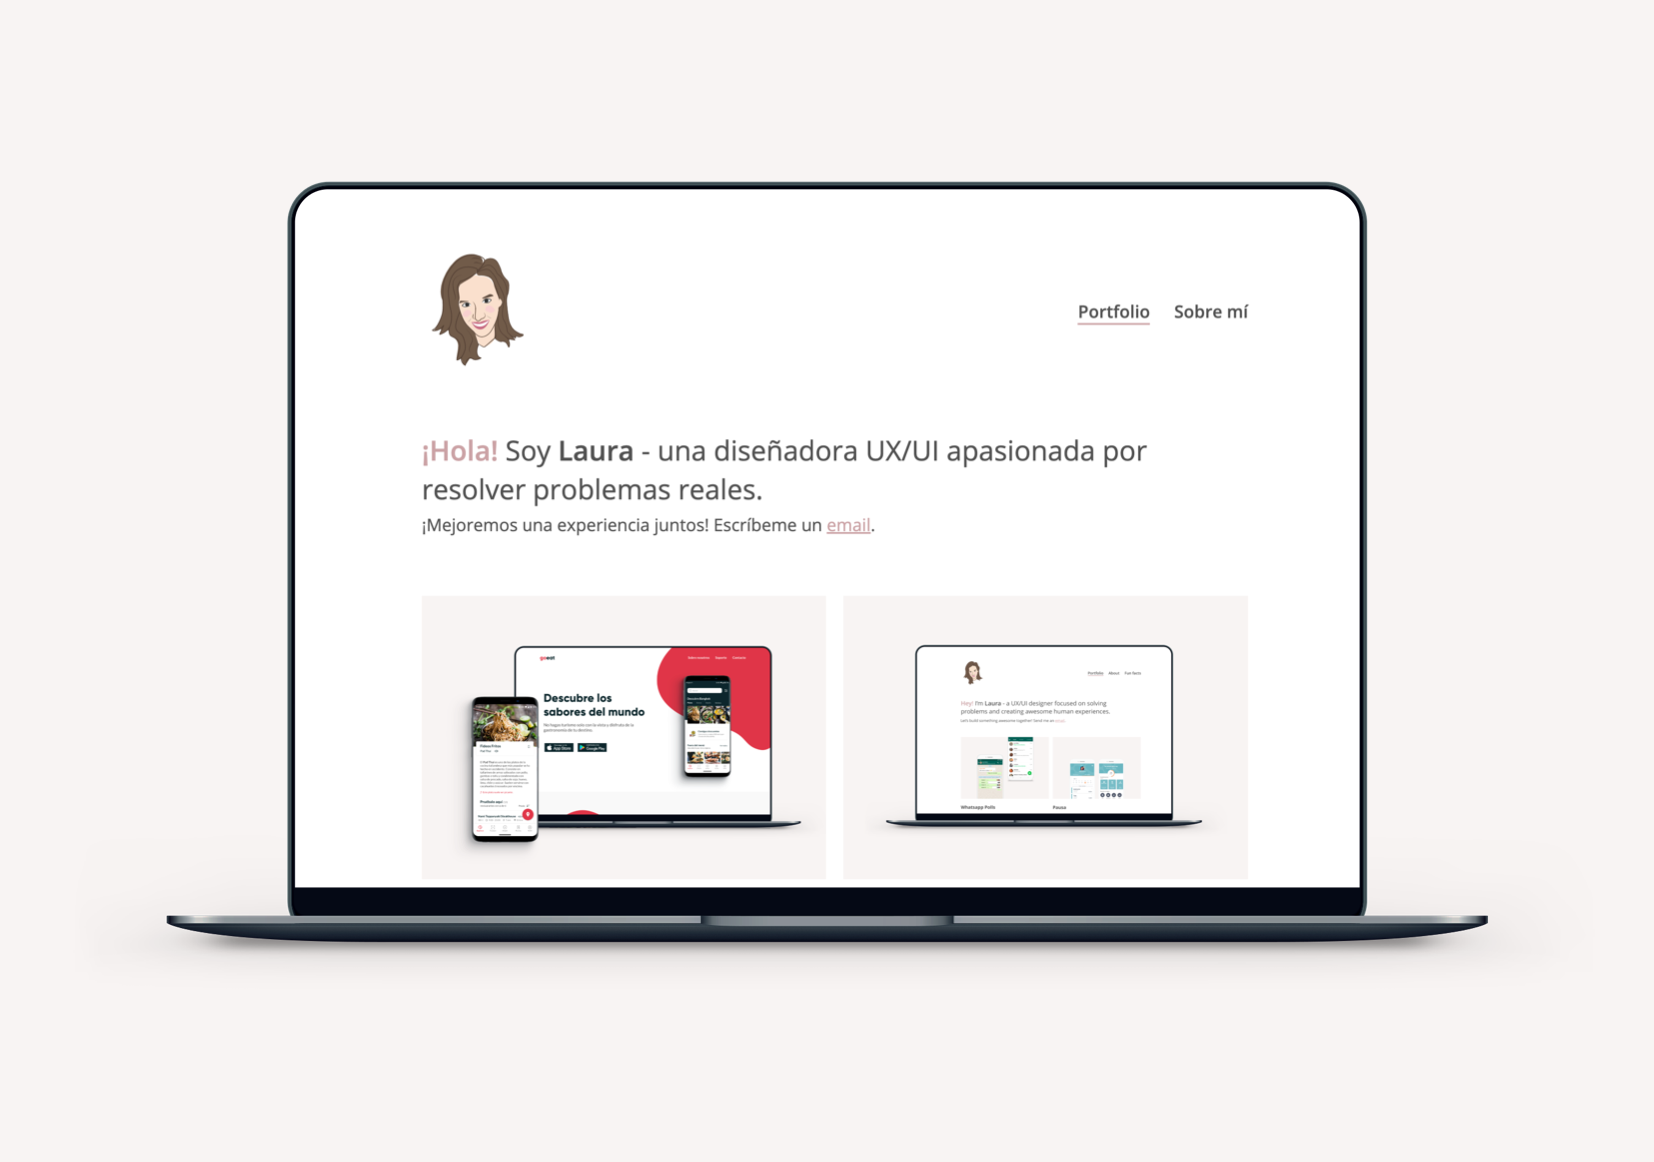
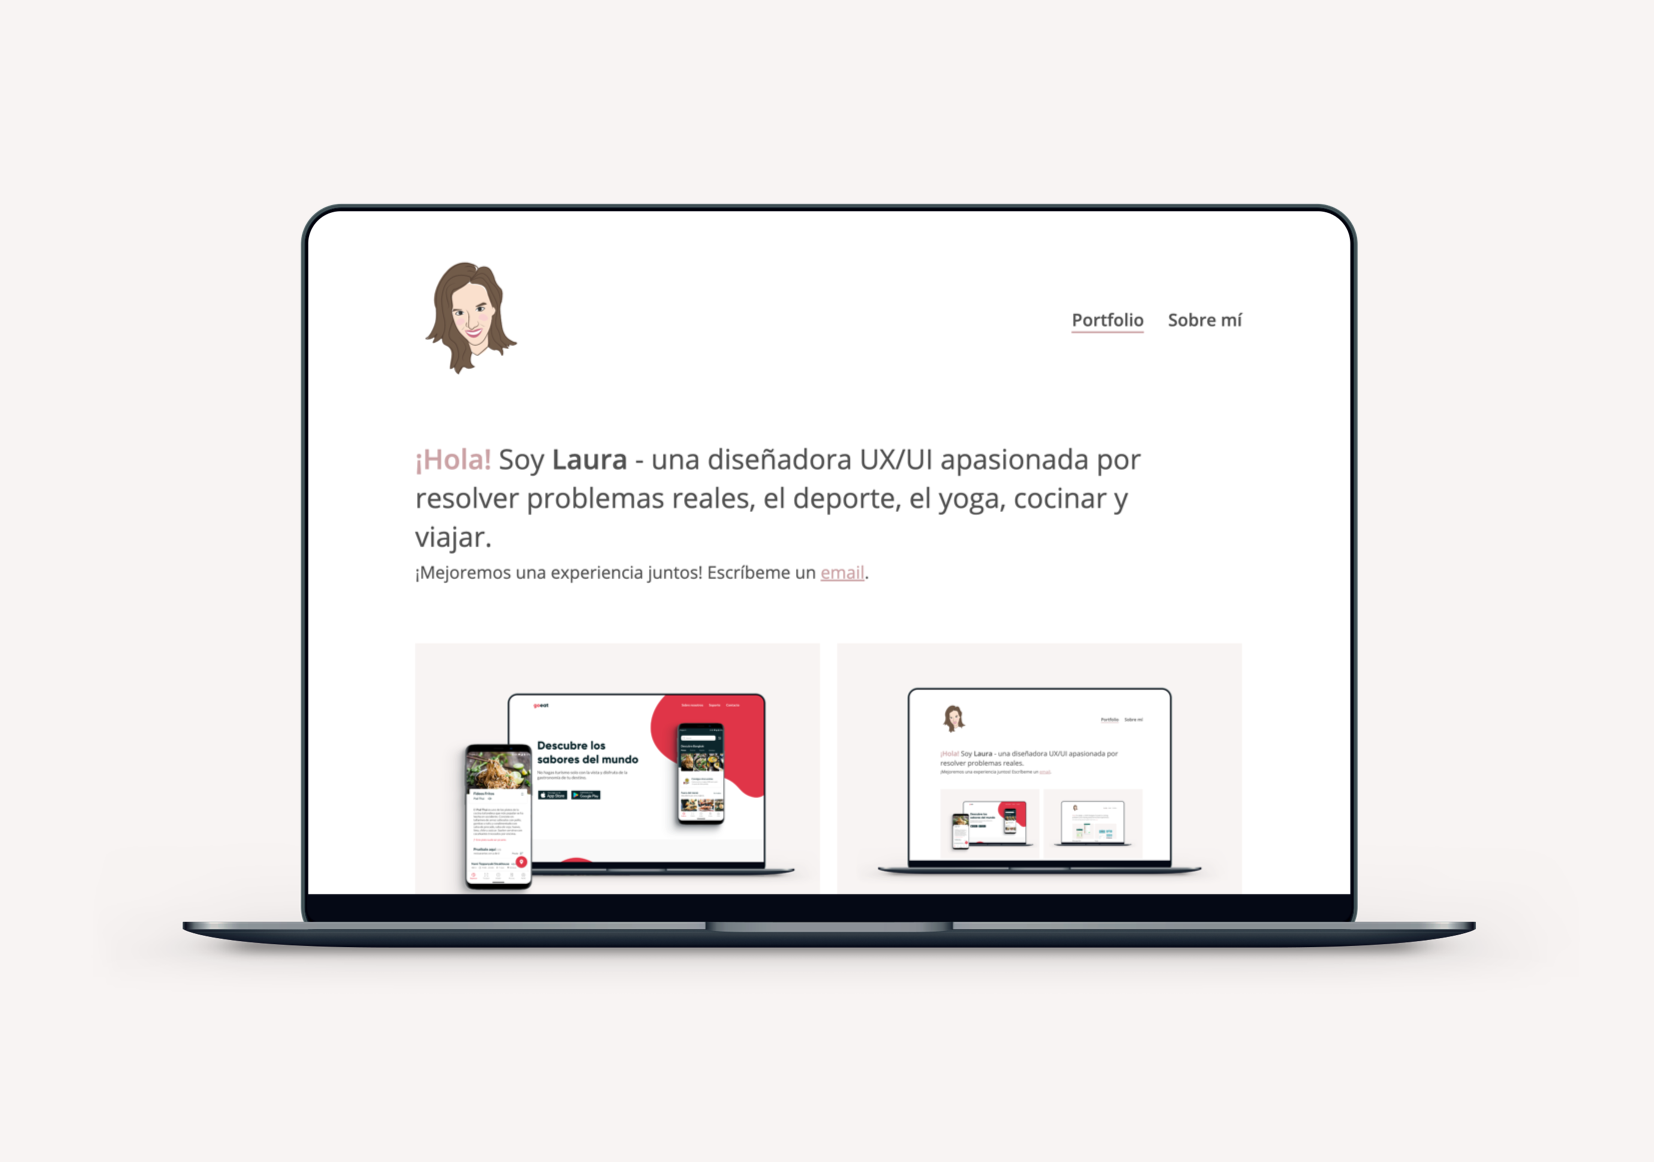
added more info to the about page

diff --git a/about.html b/about.html
@@ -15,7 +15,7 @@
   <header>
     <nav class="main-navigation container">
       <div id="logo">
-        <img src="img/laura-logo.svg" alt="Laura's logo">
+        <a href="./index.html"><img src="img/laura-logo.svg" alt="Laura's logo"></a>
       </div>
       <ul id="menu">
         <li><a href="./index.html">Portfolio</a></li>
@@ -27,11 +27,23 @@
   <div class="container" id="about">
     <h1>Una diseñadora UX/UI con sede en Madrid, España</h1>
     <p>Como <span class="semibold"> diseñadora UX/UI</span>, me apasiona resolver problemas reales y crear experiencias intuitivas, funcionales y claras.</p>
-    <p>Como profesora de Primaria, <span class="semibold">he diseñado experiencias de aprendizaje durante 4 años. </span>Mi curiosidad insaciable y mi amor por las nuevas tecnologías me ha llevado a aprender más sobre el diseño centrado en el usuario en el mundo digital. Me inscribí en <span class="semibold">el Bootcamp de UX/UI de Ironhack</span> para dar un salto profesional hacia una carrera que me permitiera crecer y aprender continuamente.</p>
+    <p>Como profesora de Primaria, <span class="semibold">he diseñado experiencias de aprendizaje durante 4 años </span>en Sevilla y en Dublin. Mi curiosidad insaciable y mi amor por las nuevas tecnologías me ha llevado a aprender más sobre el diseño centrado en el usuario en el mundo digital. Me inscribí en <span class="semibold">el Bootcamp de UX/UI de Ironhack</span> para dar ese salto profesional hacia una carrera que me permitiera crecer y aprender continuamente.</p>
     <p>Mientras que mi foco principal radica en el diseño, trato de desafiarme constantemente en todas las áreas y expandir mi conocimiento en <span class="semibold">front-end</span> también.</p>
-    <p>Además del mundo técnologico, me apasiona el yoga, los gatos y la cocina. La comida es mi segundo idioma.</p>
+    <p>Además del mundo técnologico, me apasiona el deporte, el yoga, los gatos, la cocina y viajar. La comida es mi segundo idioma.</p>
     <p>Actualmente, estoy buscando unirme a un equipo donde pueda continuar aprendiendo y crecer profesionalmente.</p>
     <p>Puedes seguirme en <a class="color-touch" href="https://medium.com/@laugardie" target="_blank">Medium</a>, <a class="color-touch" href="https://www.linkedin.com/in/laugardie/?locale=en_US" target="_blank">Linkedin</a> o contactarme por <a class="color-touch" href="mailto:laugardie89@gmail.com">email</a> para cualquier oportunidad o un saludo amistoso 😊</p>
+
+    <h2>5 datos curiosos sobre mí</h2>
+    <ul class="bulletpoints">
+      <li>🧘🏻  Soy profesora de Yoga.</li>
+      <li>🌎  En los 3 últimos años he vivido en Sevilla, Nueva York, Dublin y Madrid.</li>
+      <li>🎸  Mis artistas favoritos son: Mura masa y Hippie Sabotage.</li>
+      <li>⛰  Me encanta hacer deporte al aire libre.</li>
+      <li>🃏  Siempre que juego a un juego de mesa, quiero tenerlo.</li>
+      
+
+
+    </ul>
     <a href="https://www.linkedin.com/in/laugardie/?locale=en_US" target="_blank"><i class="fab fa-linkedin-in"></i></a>
     <a href="mailto:laugardie89@gmail.com"><i class="far fa-envelope"></i></i></a>
     <a href="cv/CV Laura García Diéguez 2019 esp.pdf" class="curriculumLink" download> descargar curriculum</a>

diff --git a/index.html b/index.html
@@ -15,7 +15,7 @@
   <header>
       <nav class="main-navigation container">
         <div id="logo">
-          <img src="img/laura-logo.svg" alt="Laura's logo">
+          <a href="./index.html"><img src="img/laura-logo.svg" alt="Laura's logo"></a>
         </div>
         <ul id="menu">
           <li><a class="active" href="./index.html">Portfolio</a></li>
@@ -26,7 +26,7 @@
   </header>
   <section class="hero container">
     <div id="hero-text">
-        <h1><span class="color-touch bold">¡Hola!</span> Soy <span class="bold">Laura</span> - una diseñadora UX/UI apasionada por resolver problemas reales.</h1>
+        <h1><span class="color-touch bold">¡Hola!</span> Soy <span class="bold">Laura</span> - una diseñadora UX/UI apasionada por resolver problemas reales, el deporte, el yoga, cocinar y viajar.</h1>
         <p>¡Mejoremos una experiencia juntos! Escríbeme un <a href="mailto:laugardie89@gmail.com"><span class="color-touch">email</span></a>.</p>
     </div>
   </section>

diff --git a/project-whatsapp.html b/project-whatsapp.html
@@ -14,7 +14,7 @@
     <header>
       <nav class="main-navigation container">
         <div id="logo">
-          <img src="img/laura-logo.svg" alt="Laura's logo" />
+          <a href="./index.html"><img src="img/laura-logo.svg" alt="Laura's logo"></a>
         </div>
         <ul id="menu">
           <li><a href="./index.html">Portfolio</a></li>

diff --git a/projects-goeat.html b/projects-goeat.html
@@ -14,7 +14,7 @@
     <header>
       <nav class="main-navigation container">
         <div id="logo">
-          <img src="img/laura-logo.svg" alt="Laura's logo" />
+          <a href="./index.html"><img src="img/laura-logo.svg" alt="Laura's logo"></a>
         </div>
         <ul id="menu">
           <li><a href="./index.html">Portfolio</a></li>

diff --git a/projects-pausa.html b/projects-pausa.html
@@ -14,7 +14,7 @@
     <header>
       <nav class="main-navigation container">
         <div id="logo">
-          <img src="img/laura-logo.svg" alt="Laura's logo" />
+          <a href="./index.html"><img src="img/laura-logo.svg" alt="Laura's logo"></a>
         </div>
         <ul id="menu">
           <li><a href="./index.html">Portfolio</a></li>

diff --git a/projects-portfolio.html b/projects-portfolio.html
@@ -14,7 +14,7 @@
     <header>
       <nav class="main-navigation container">
         <div id="logo">
-          <img src="img/laura-logo.svg" alt="Laura's logo" />
+          <a href="./index.html"><img src="img/laura-logo.svg" alt="Laura's logo"></a>
         </div>
         <ul id="menu">
           <li><a href="./index.html">Portfolio</a></li>

diff --git a/css/about.css b/css/about.css
@@ -40,6 +40,21 @@
 #about a:hover {
   color: #d2a0a4;
 }
+
+#about h2 {
+  font-size: 24px;
+  margin-top: 60px;
+  font-weight: 600;
+
+}
+
+.bulletpoints {
+  font-size: 20px;
+  line-height: 34px;
+  margin-top: 20px;
+  margin-bottom: 50px;
+}
+
 /* Responsive */
 
 /*tablet*/

diff --git a/css/main.css b/css/main.css
@@ -256,7 +256,6 @@ body {
     max-width: 600px;
   }
 
-
 }
 
 @media screen and (max-width: 620px) {
